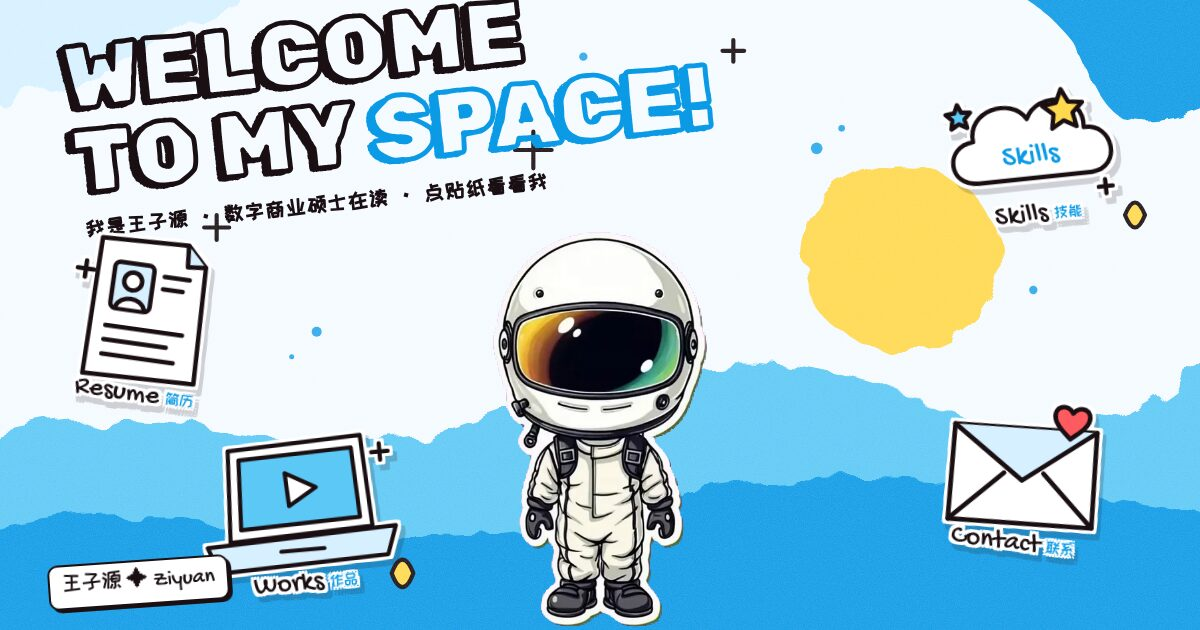
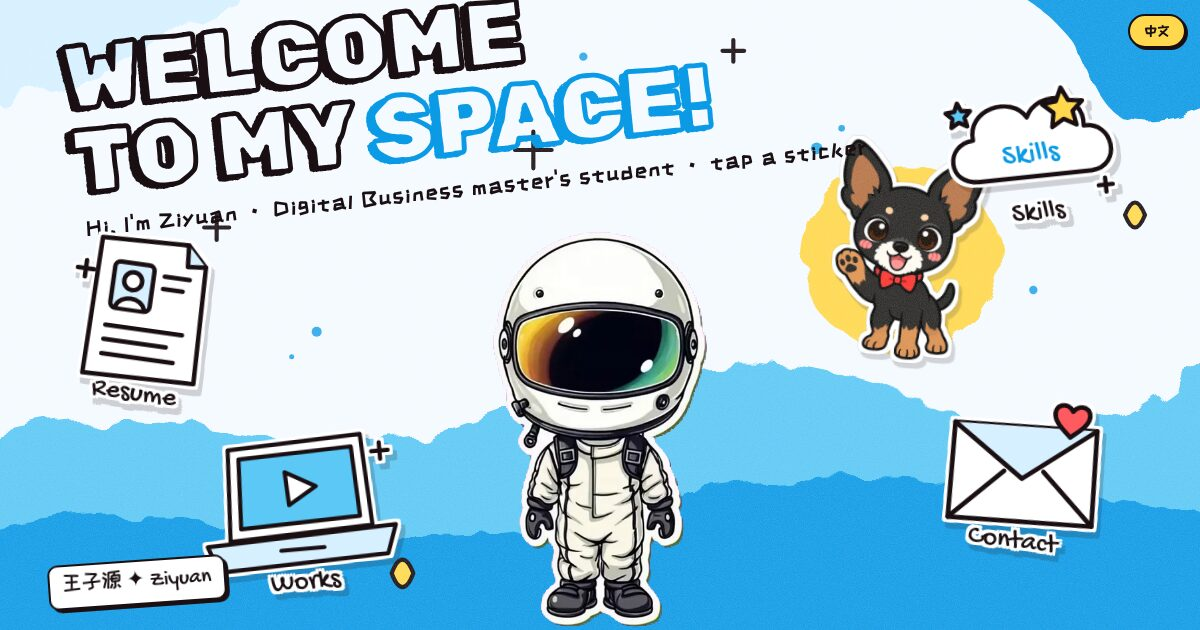
Add Q-version Dingding sticker on the sun
Claude-Session: https://claude.ai/code/session_012suDiFURQWt1mUHiTPjUGk

diff --git a/index.html b/index.html
@@ -61,6 +61,9 @@ button{font:inherit;color:inherit;background:none;border:0;cursor:pointer}
 .ip-ph .eye.l{left:30%}.ip-ph .eye.r{right:30%}
 .ip-ph p{font-size:clamp(14px,1.3vw,18px);line-height:1.4}
 .ip-ph small{font-family:var(--body);font-size:12px;color:var(--muted)}
+.pup{transform-box:fill-box;transform-origin:50% 100%;animation:wag 2.6s ease-in-out infinite;filter:drop-shadow(4px 6px 0 rgba(26,16,20,.18))}
+@keyframes wag{0%,100%{transform:rotate(-4deg)}50%{transform:rotate(4deg)}}
+@media (prefers-reduced-motion:reduce){.pup{animation:none}}
 .lang{position:fixed;top:14px;right:14px;z-index:40;font:600 14px/1 var(--cn);padding:8px 14px;border:2.5px solid var(--ink);border-radius:99px;background:var(--yellow);color:var(--ink);box-shadow:2px 2px 0 var(--ink);cursor:pointer}
 .lang:hover{background:#fff}
 html[lang=en] .lbl i,html[lang=en] .panel-head .k{display:none}
@@ -184,6 +187,7 @@ html[lang=en] .lbl i,html[lang=en] .panel-head .k{display:none}
       <path fill="#d6f0ff" d="M-40 -40 L 520 -40 C 470 60 300 40 200 120 S 40 160 -40 230Z"/>
       <ellipse fill="#ffd84d" cx="1080" cy="380" rx="120" ry="112"/>
     </g>
+    <image class="pup" href="assets/dingding.webp" x="989" y="238" width="182" height="270"/>
     <g fill="#0a9ae6" opacity=".85">
       <circle cx="980" cy="250" r="7"/><circle cx="1010" cy="226" r="4"/><circle cx="380" cy="470" r="6"/><circle cx="350" cy="500" r="3"/>
       <circle cx="1240" cy="420" r="5"/><circle cx="150" cy="420" r="8"/><circle cx="700" cy="140" r="5"/>
